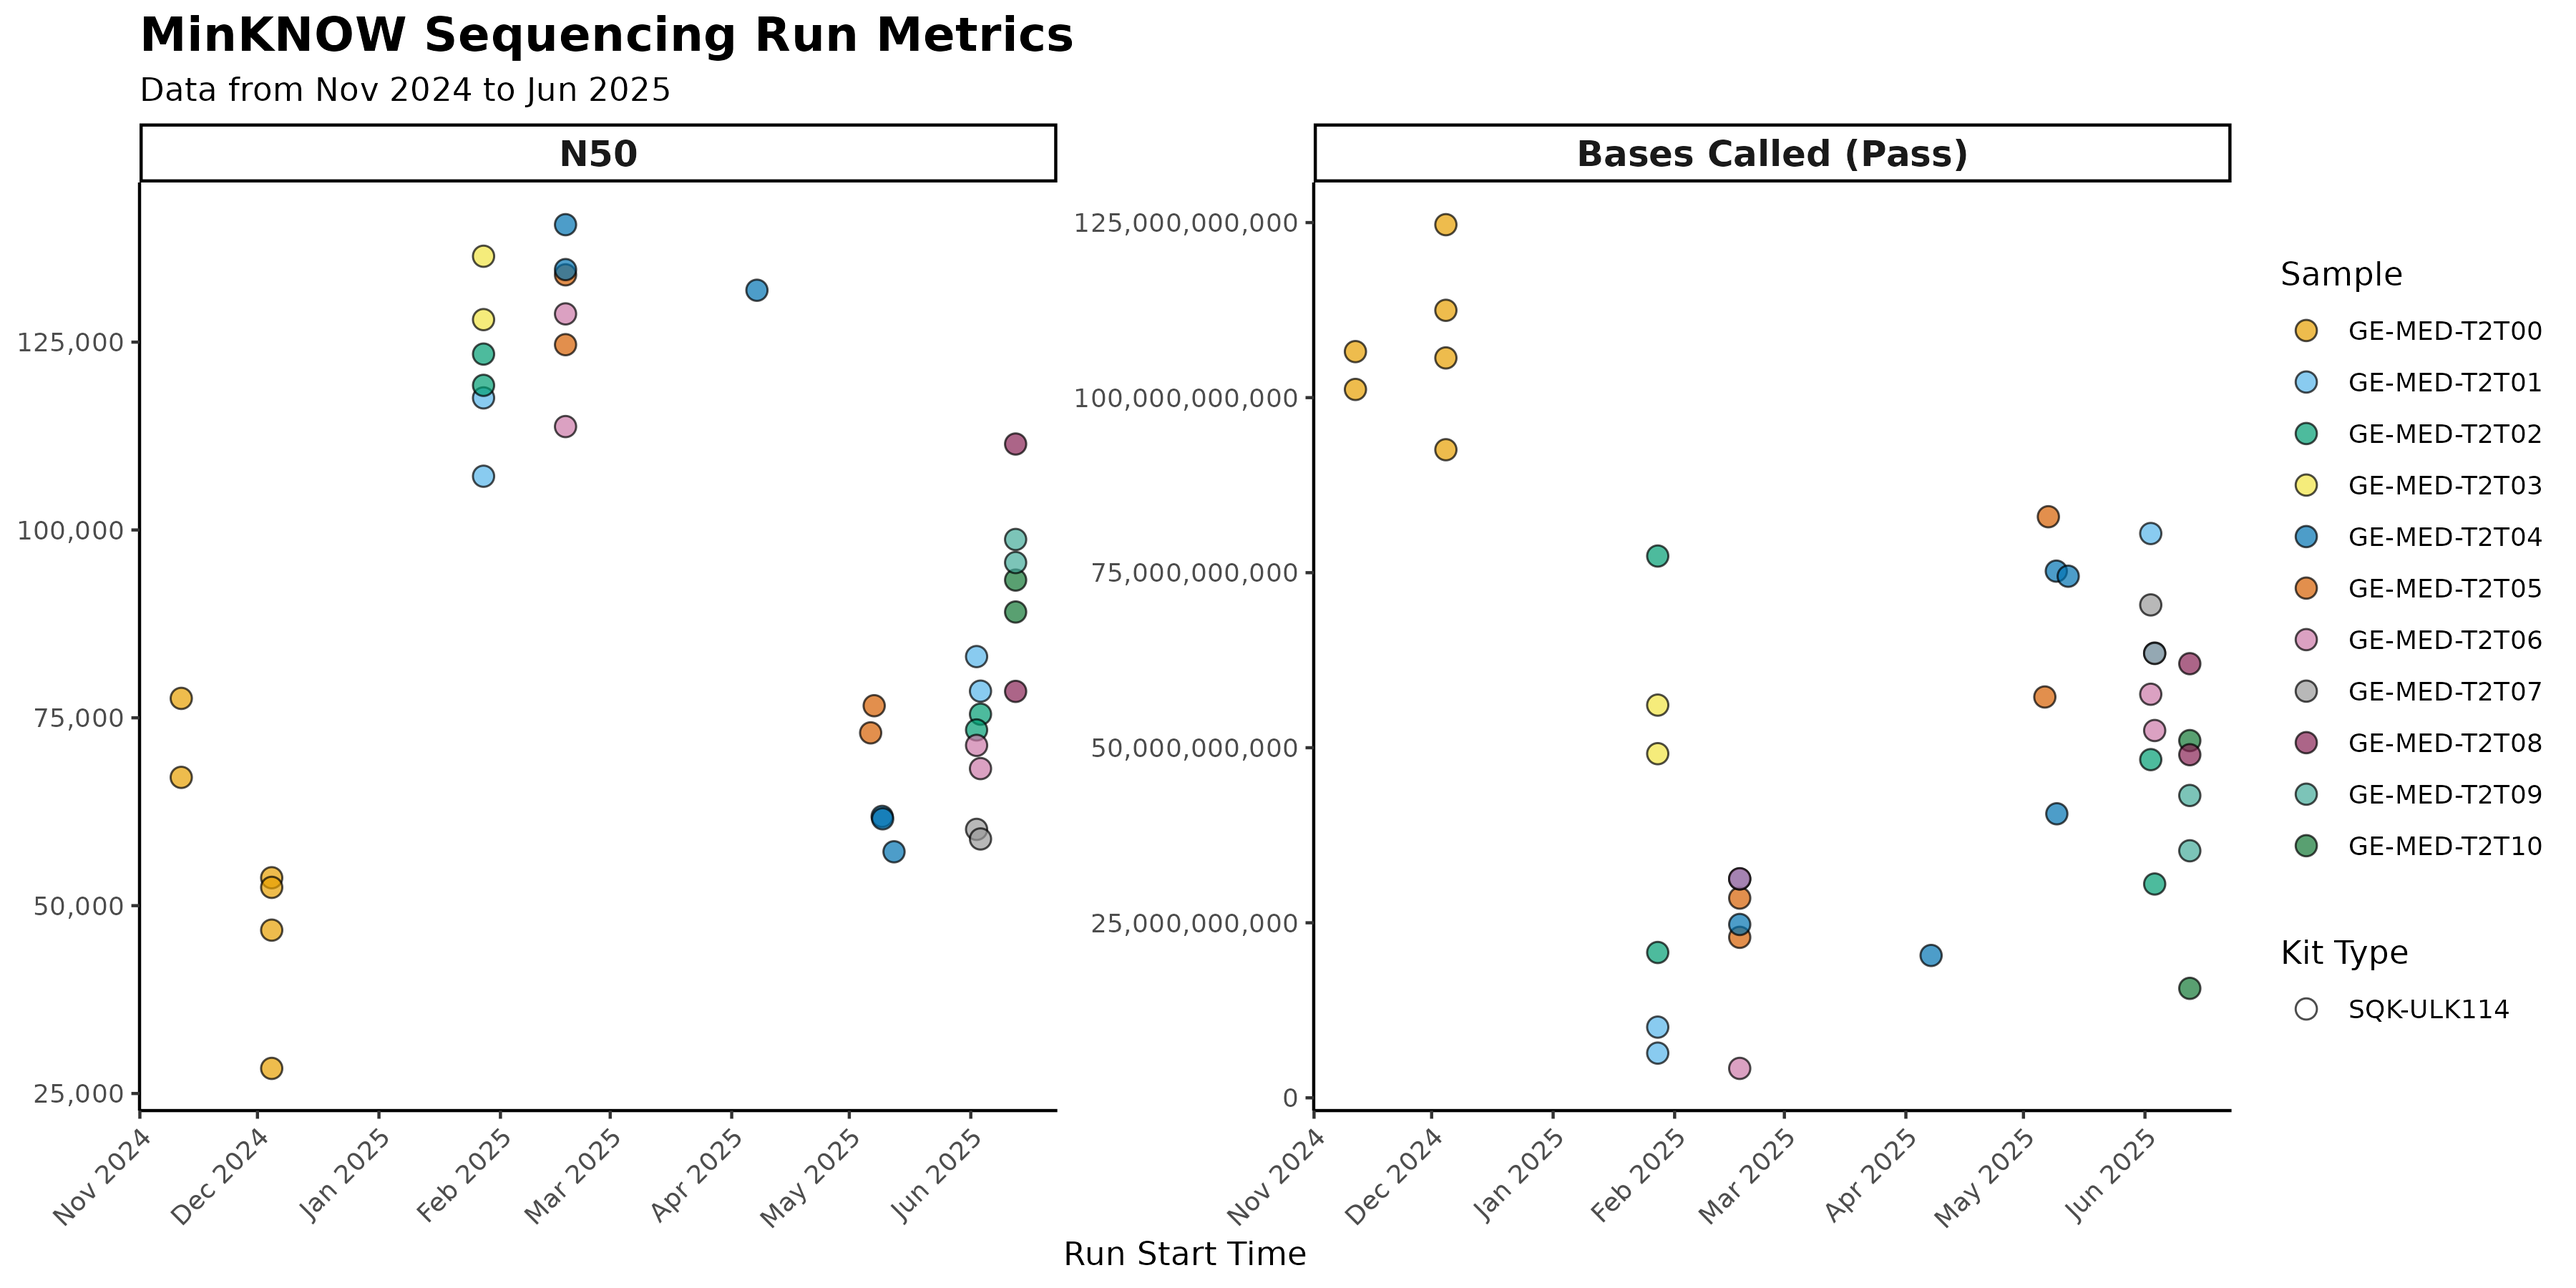
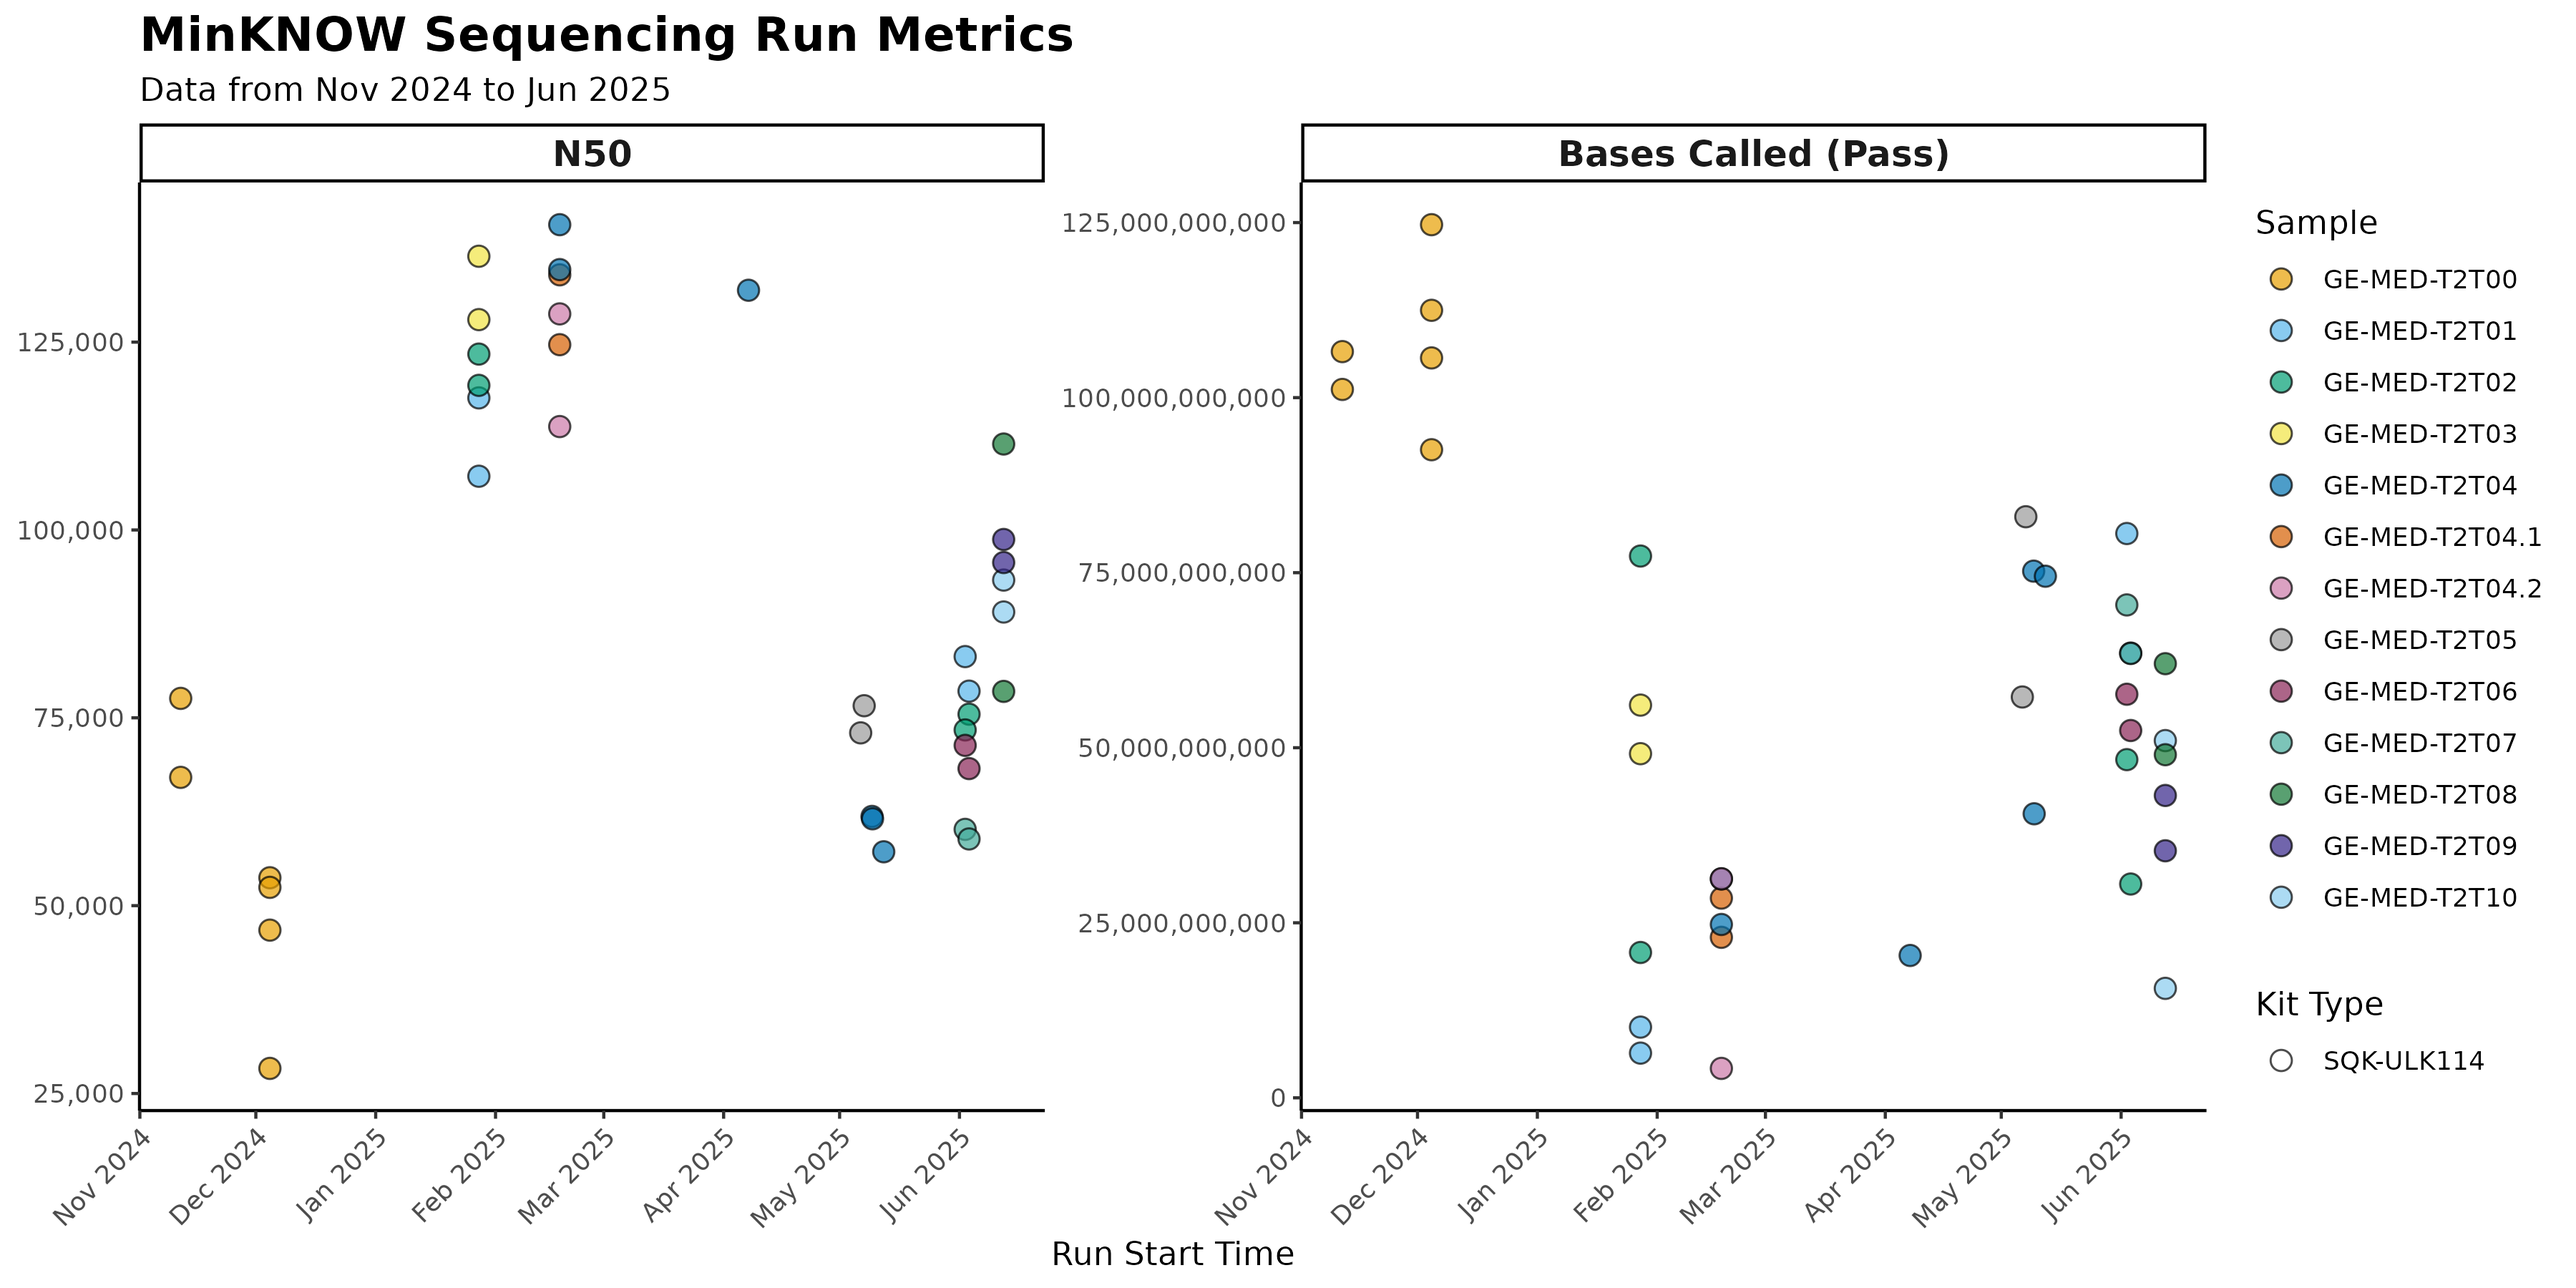
Add new datasets

diff --git a/doc/04_assembly_qc.md b/doc/04_assembly_qc.md
@@ -105,3 +105,98 @@ https://github.com/fedorrik/HumAS-HMMER_for_AnVIL
 
 Centromer Plots (implemented)
 https://github.com/logsdon-lab/CenPlot?tab=readme-ov-file
+
+
+
+## Full list:
+
+"mapped_sequences_n",
+"primary_alignments_n",
+"secondary_alignments_n",
+"primary_alignments_long_cigar_n",
+"bases_in_mapped_sequences",
+"bases_mapped",
+"substitutions",
+"insertions_length_0_50",
+"insertions_length_50_100",
+"insertions_length_100_300",
+"insertions_length_300_400",
+"insertions_length_400_1000",
+"insertions_length_1000_inf",
+"deletions_length_0_50",
+"deletions_length_50_100",
+"deletions_length_100_300",
+"deletions_length_300_400",
+"deletions_length_400_1000",
+"deletions_length_1000_inf",
+"length",
+"l_cov",
+"ref_covered",
+"ref_dup",
+"asm_covered",
+"NG75",
+"NG50",
+"NGA50",
+"AUNGA",
+"breaks",
+"length_0-10000",
+"length_10k-100k",
+"ref.full_sgl",
+"asm.full_sgl",
+"ref.full_dup",
+"asm.full_dup",
+"ref.frag",
+"asm.frag",
+"ref.part50+",
+"asm.part50+",
+"ref.part10+",
+"asm.part10+",
+"ref.part10-",
+"asm.part10-",
+"ref.dup_cnt",
+"asm.dup_cnt",
+"ref.dup_sum",
+"asm.dup_sum",
+"inter-chromosomal_misjoins",
+"intra-chromosomal_gaps",
+"candidate_inversions_in_the_middle",
+"candidate_inversions_at_contig_ends,
+"variants",
+"phased",
+"unphased",
+"singletons",
+"blocks",
+"variant_per_block_median",
+"variant_per_block_avg",
+"variant_per_block_min",
+"variant_per_block_max",
+"variant_per_block_sum",
+"bp_per_block_median",
+"bp_per_block_avg",
+"bp_per_block_min",
+"bp_per_block_max",
+"bp_per_block_sum",
+"heterozygous_variants",
+"heterozygous_snvs",
+"phased_snvs",
+"phased_fraction",
+"phased_snvs_fraction",
+"block_n50",
+"unique_kmers",
+"total_kmers",
+"qv",
+"error_rate",
+"n_T2T",
+"total_n_count",
+"total_gaps",
+"avg_gap_size",
+"gap_n50",
+"max_gap_size",
+"min_gap_size",
+"n_contigs",
+"n_contigs_over_10mb",
+"genome_completeness",
+"MMC",
+"total_covered_variants",
+"overall_switch_rate",
+"overall_switch_flip_rate",

diff --git a/doc/09_tads.md b/doc/09_tads.md
@@ -1,0 +1,37 @@
+# TAD Analysis
+
+
+## Use wf-pore-c agains diploid assembly
+
+We want to assign the PoreC to the individual haplotypes, for this we use the wf-pore-c pipeline and use our diploid assembly as reference.
+
+### 1) First Try
+
+17.06.2025, Default settings
+
+Error in mosdepth step: 
+ERROR: start > end in bed line:unassigned-0000195 102258 102257
+
+Maybe this could simply be resolved by removing all very short contigs from the assembly.
+
+
+![Juicebox Screenshot](img/tad_01_screenshot.png)
+
+Observations 
+- Associations between haplotypes seems to be equally strong is inside the same haplotype --> Haplotype separation seems to be not working
+- Haplotype-0000056 is chromosome X, and almost every other chromosome has strong interactions with it. This does not happen in the GRCh38 aligned dataset.
+
+Information from source code
+
+pore_c_py/annotate.py should only consider primary alignments. The final bamfile also contains only primary alignments. 
+
+
+
+### Output files
+    .cs.bam : Coordinate sorted bam
+    .bs.bam : Name sorted bam
+
+
+
+
+Idea: If a phased VCF is provided ,the output BAM will be haplotagged using Whatshap.
